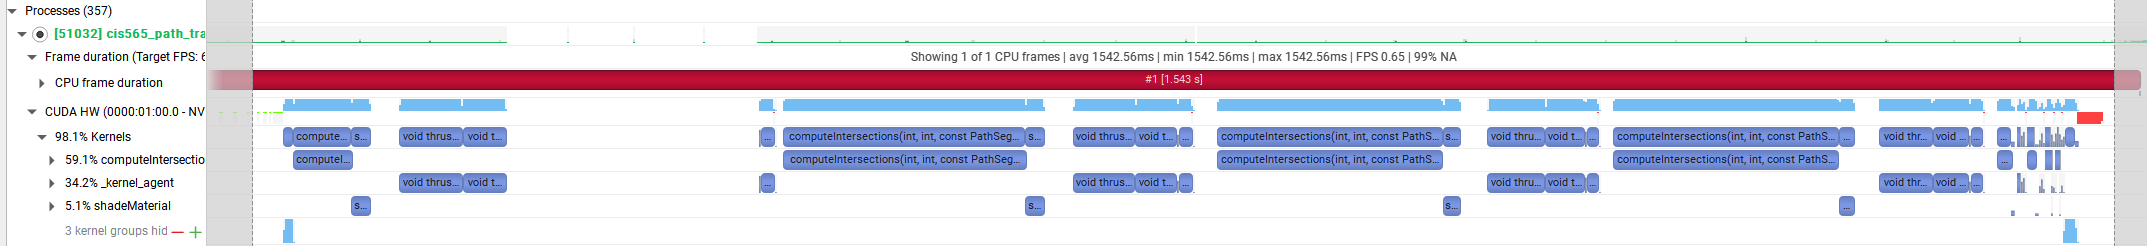
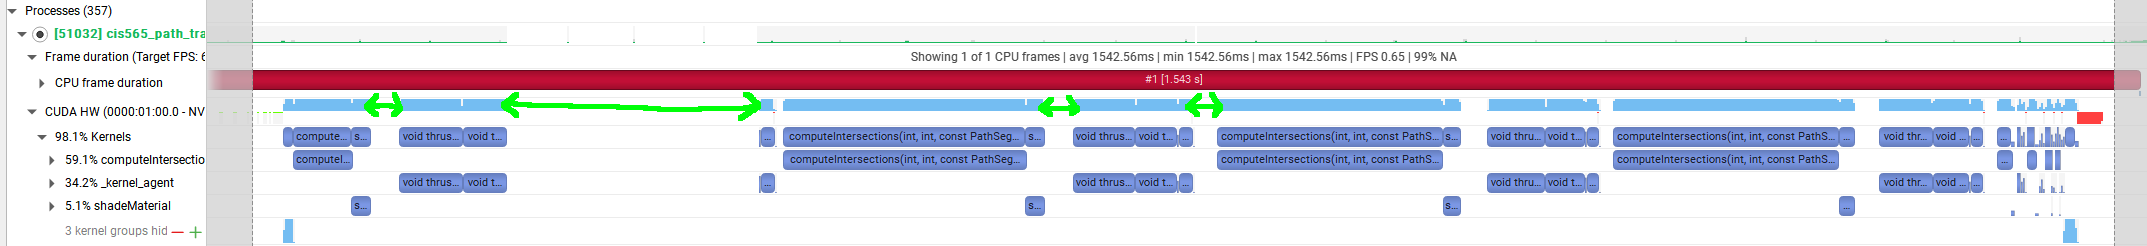
update nsight timeline

Changed region(s): [[0.2184, 0.3699, 0.3745, 0.4837], [0.4681, 0.3984, 0.5929, 0.4837], [0.156, 0.3699, 0.1872, 0.4837]]

diff --git a/README.md b/README.md
@@ -101,11 +101,11 @@ Comparing the two options, I initially thought partitioning would increase perfo
 
 ![](img/charts/partition_time.png)
 
-Looking at the Nsight timeline provides somewhat of an explanation:
+Looking at the Nsight timeline for rendering one frame of Closed provides somewhat of an explanation:
 
 ![](img/charts/partition_nsight.png)
 
-I'm not sure why there's such a large gap between calls to the CUDA kernels and calls to `thrust::partition`, but that would explain the significant performance downgrade when using partitioning. With that in mind, I disabled ray partitioning for the remaining analyses.
+There's a gap between each pair of CUDA kernel and `thrust::partition` calls; I've highlighted the first few gaps with green arrows. I'm not sure why there's so many gaps, but they do explain the significant performance downgrade when using partitioning. With that in mind, I disabled ray partitioning for the remaining analyses.
 
 ### Sort rays by material type
 
